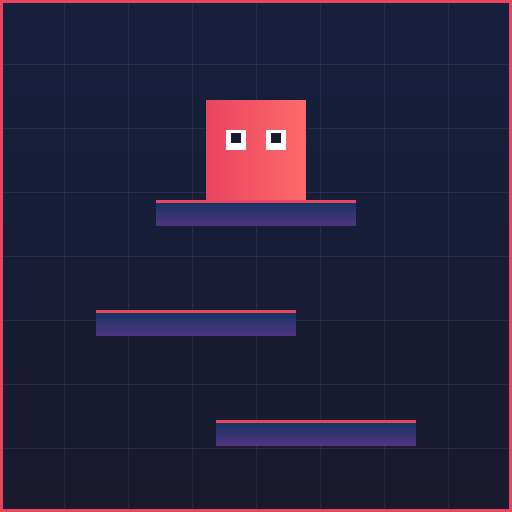
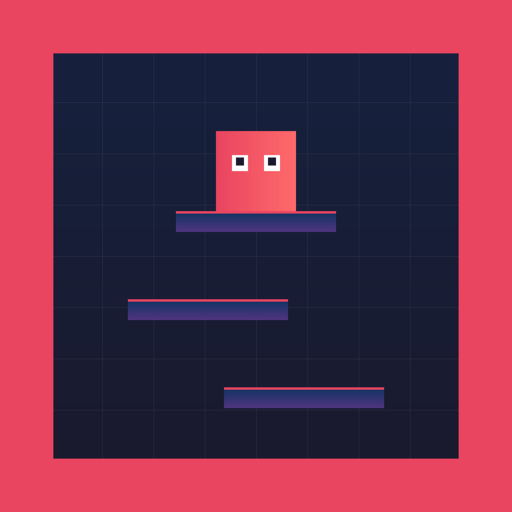
Fix PWA install issues (#2)
- Hide install button unless the browser fires beforeinstallprompt
  (Chrome/Edge). On Firefox the button no longer lingers after
  installing via the browser menu, and it never shows inside the
  installed standalone app.
- Await prompt() and null the deferred event before awaiting userChoice.
- Generate a real maskable icon (content within the 80% safe zone,
  padded with the edge color) instead of reusing the 512 any icon,
  which Android's circular crop used to clip.
- Serve .webmanifest with application/manifest+json in dev server.

diff --git a/js/pwa.js b/js/pwa.js
@@ -5,21 +5,42 @@ import { elInstall } from './dom.js';
  * Deferred `beforeinstallprompt` event, held so the install prompt can be
  * triggered from the install button. Null if not yet received (or already
  * consumed).
+ *
+ * Only Chromium browsers (Chrome/Edge) fire this event — and only on secure
+ * (https) origins where the app is actually installable. Firefox for Android
+ * has no such API, so on those browsers the button stays hidden and
+ * installation happens through the browser menu instead.
  * @type {Event|null}
  */
 let deferredInstall = null;
+
+/**
+ * True when running as an installed app (no browser chrome), in which case
+ * the install button must never be shown.
+ * @returns {boolean}
+ */
+function isStandalone() {
+  return window.matchMedia('(display-mode: standalone)').matches ||
+    window.navigator.standalone === true; // legacy iOS
+}
+
+// The button is hidden by default (see style.css); reveal it only when the
+// browser offers a real install prompt.
 window.addEventListener('beforeinstallprompt', (e) => {
   e.preventDefault();
   deferredInstall = e;
-  elInstall.style.display = 'block';
+  if (!isStandalone()) elInstall.style.display = 'block';
 });
+
 elInstall.addEventListener('click', async () => {
   if (!deferredInstall) return;
-  deferredInstall.prompt();
-  const { outcome } = await deferredInstall.userChoice;
-  if (outcome === 'accepted') elInstall.style.display = 'none';
+  const pending = deferredInstall;
   deferredInstall = null;
+  pending.prompt();
+  const { outcome } = await pending.userChoice;
+  if (outcome === 'accepted') elInstall.style.display = 'none';
 });
+
 window.addEventListener('appinstalled', () => { elInstall.style.display = 'none'; });
 
 if ('serviceWorker' in navigator) {

diff --git a/style.css b/style.css
@@ -109,7 +109,12 @@
   .p-cell.on { background: #16c79a; }
   .p-cell.on:last-child { background: #f5a623; }
   #hints { display: none; }
+  /* Hidden by default; js/pwa.js reveals it only when the browser fires
+     `beforeinstallprompt` (Chrome/Edge). On other browsers (e.g. Firefox)
+     installation goes through the browser menu, so a dead button would just
+     confuse users. */
   #install-btn {
+    display: none;
     position: absolute; top: 58px; right: 14px; z-index: 6; pointer-events: auto;
     font-family: 'Courier New', monospace; font-size: 12px; font-weight: bold; letter-spacing: 1px;
     background: #28331c; color: #d3e4a8; border: 2px solid #141c0e; border-radius: 4px;

diff --git a/serve.js b/serve.js
@@ -14,6 +14,7 @@ const MIME = {
   '.js': 'text/javascript; charset=utf-8',
   '.css': 'text/css; charset=utf-8',
   '.json': 'application/json; charset=utf-8',
+  '.webmanifest': 'application/manifest+json',
   '.svg': 'image/svg+xml',
   '.png': 'image/png',
   '.ico': 'image/x-icon',

diff --git a/sw.js b/sw.js
@@ -7,7 +7,7 @@
  */
 
 /** Name of the versioned cache used for the app shell. */
-const CACHE = 'platform-fall-v16';
+const CACHE = 'platform-fall-v17';
 
 /** List of app shell resources precached during install. */
 const APP_SHELL = [
